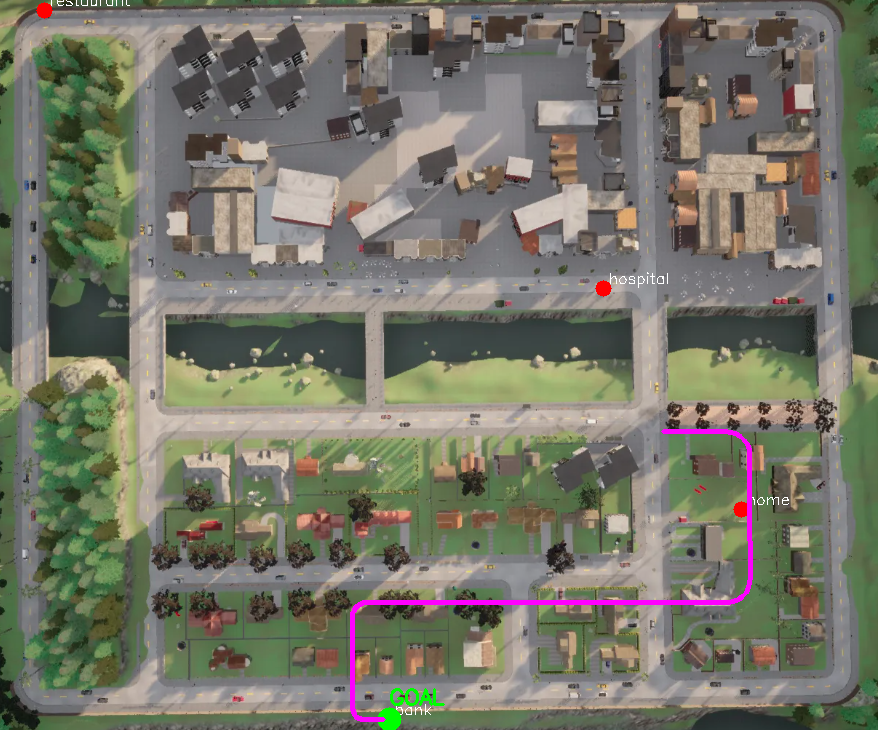
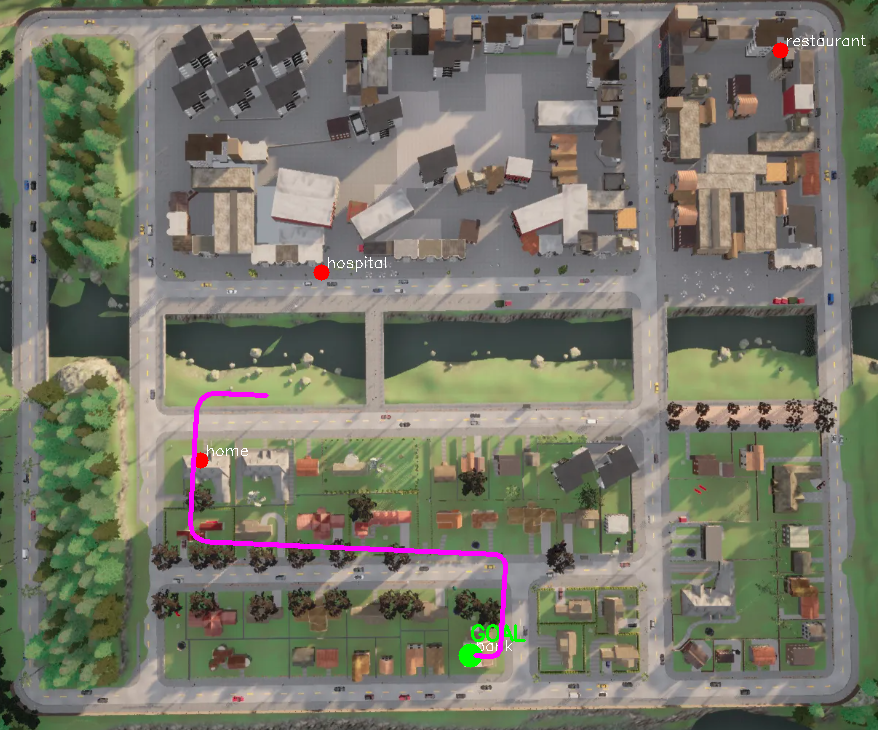
annotations not aligned

diff --git a/BEV_save.py b/BEV_save.py
@@ -1,79 +1,85 @@
+import sys
 import cv2
 import numpy as np
 import carla
-import sys
+
+# ── Adjust these to your CARLA PythonAPI paths ───────────────────
 sys.path.append('/home/bimi/users/elahe/CARLA_0.9.15/PythonAPI')
 sys.path.append('/home/bimi/users/elahe/CARLA_0.9.15/PythonAPI/carla')
 sys.path.append('/home/bimi/users/elahe/CARLA_0.9.15/PythonAPI/carla/agents')
+
 from agents.navigation.global_route_planner import GlobalRoutePlanner
 
-# 1. Load your top-down map
-map_img = cv2.imread("Town01_map.png")
-h, w = map_img.shape[:2]
-
-# 2. Connect to Carla & get map extents
-client = carla.Client('localhost', 2000)
-client.set_timeout(10.0)
-world = client.get_world()
-carla_map = world.get_map()
-
-# Gather a bunch of world XY samples to find bounding box:
-#   - all spawn points (covers most of the drivable map)
-#   - your four landmarks
-spawn_pts = carla_map.get_spawn_points()
-pts = [(sp.location.x, sp.location.y) for sp in spawn_pts]
-
-landmarks_world = {
-    "home":       carla.Location(x=335, y= 98, z=0),
-    "bank":       carla.Location(x=175, y=  2, z=0),
-    "hospital":   carla.Location(x=272, y=199, z=0),
-    "restaurant": carla.Location(x= 18, y=326, z=0)
+# 1. Known correspondences
+pixel_coords = {
+    "home":       (200, 460),
+    "bank":       (470, 655),
+    "hospital":   (280, 240),
+    "restaurant": (780,  50)
 }
-for loc in landmarks_world.values():
-    pts.append((loc.x, loc.y))
+world_coords = {
+    "home":       (335,  98),
+    "bank":       (175,   2),
+    "hospital":   (272, 199),
+    "restaurant": ( 18, 326)
+}
 
-xs, ys = zip(*pts)
-xmin, xmax = min(xs), max(xs)
-ymin, ymax = min(ys), max(ys)
+# 2. Estimate 2×3 affine transform M: (x,y,1) → (u,v)
+names    = list(pixel_coords.keys())
+world_pts = np.array([world_coords[n] for n in names], dtype=np.float32)
+pix_pts   = np.array([pixel_coords[n] for n in names], dtype=np.float32)
+M, inliers = cv2.estimateAffine2D(world_pts, pix_pts)
+if M is None:
+    raise RuntimeError("Could not estimate affine transform. Check correspondences.")
 
-# 3. Helper to project world→pixel
-def world_to_pixel(loc):
-    u = int((loc.x - xmin) / (xmax - xmin) * (w-1))
-    # invert Y so larger world-Y is toward top of image
-    v = int((ymax - loc.y) / (ymax - ymin) * (h-1))
-    return u, v
+def world_to_pixel(x, y):
+    vec = np.array([x, y, 1.0], dtype=np.float32)
+    u, v = M.dot(vec)
+    return int(round(u)), int(round(v))
 
-# 4. Match your prompt → goal (you already have this)
-matched_location = "bank"                   # from your embedding code
-goal_world = landmarks_world[matched_location]
-
-# 5. Plan the route
-planner = GlobalRoutePlanner(carla_map, sampling_resolution=2.0)
-start_world = spawn_pts[1].location
-route = planner.trace_route(start_world, goal_world)
-route_world = [wp.transform.location for wp, _ in route]
-
-# 6. Annotate map_img
+# 3. Load your map image
+map_img = cv2.imread("Town01_map.png")
+if map_img is None:
+    raise FileNotFoundError("Cannot load Town01_map.png")
 canvas = map_img.copy()
 
-# 6a. Draw all landmarks
-for name, loc in landmarks_world.items():
-    u,v = world_to_pixel(loc)
-    cv2.circle(canvas, (u,v), 8, (0,0,255), -1)
+# 4. Connect to CARLA & plan route
+client    = carla.Client('localhost', 2000)
+client.set_timeout(10.0)
+world     = client.get_world()
+carla_map = world.get_map()
+
+# Suppose your embedding matched “bank”:
+matched = "bank"
+gx, gy  = world_coords[matched]
+goal_loc = carla.Location(x=gx, y=gy, z=0)
+
+spawn_pts = carla_map.get_spawn_points()
+start_loc = spawn_pts[1].location
+
+planner = GlobalRoutePlanner(carla_map, sampling_resolution=2.0)
+route = planner.trace_route(start_loc, goal_loc)
+route_locs = [wp.transform.location for wp, _ in route]
+
+# 5. Draw all landmarks
+for name, (wx, wy) in world_coords.items():
+    u, v = world_to_pixel(wx, wy)
+    cv2.circle(canvas, (u, v), 8, (0, 0, 255), -1)
     cv2.putText(canvas, name, (u+5, v-5),
                 cv2.FONT_HERSHEY_SIMPLEX, 0.5, (255,255,255), 1)
 
-# 6b. Highlight the goal
-u_goal, v_goal = world_to_pixel(goal_world)
-cv2.circle(canvas, (u_goal, v_goal), 12, (0,255,0), -1)
+# 6. Highlight the goal
+u_goal, v_goal = world_to_pixel(gx, gy)
+cv2.circle(canvas, (u_goal, v_goal), 12, (0, 255, 0), -1)
 cv2.putText(canvas, "GOAL", (u_goal, v_goal-15),
             cv2.FONT_HERSHEY_SIMPLEX, 0.7, (0,255,0), 2)
 
-# 6c. Draw the route polyline
-pts_px = [world_to_pixel(loc) for loc in route_world]
-if len(pts_px) > 1:
-    cv2.polylines(canvas, [np.array(pts_px)], False, (255,0,255), 3)
+# 7. Draw the planned route
+pts = [world_to_pixel(loc.x, loc.y) for loc in route_locs]
+if len(pts) > 1:
+    cv2.polylines(canvas, [np.array(pts, dtype=np.int32)], False,
+                  (255, 0, 255), thickness=3)
 
-# 7. Save
+# 8. Save result
 cv2.imwrite("bev_with_route.png", canvas)
 print("✅ Saved bev_with_route.png with landmarks, goal, and route.")
